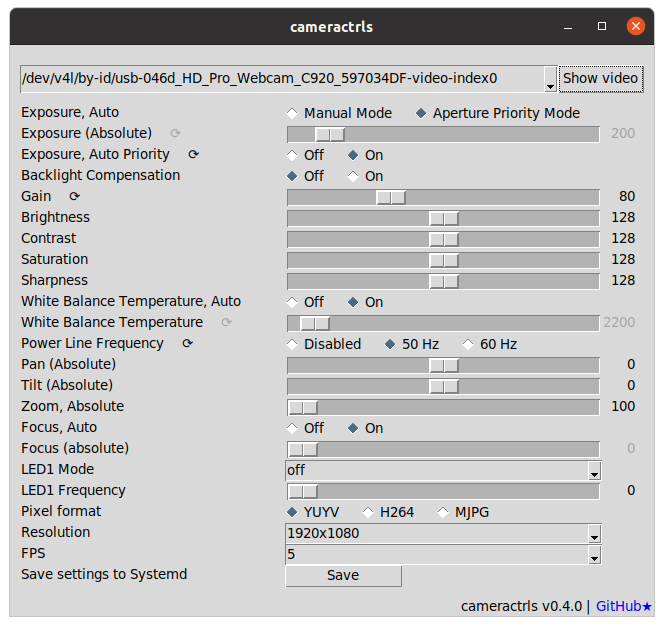
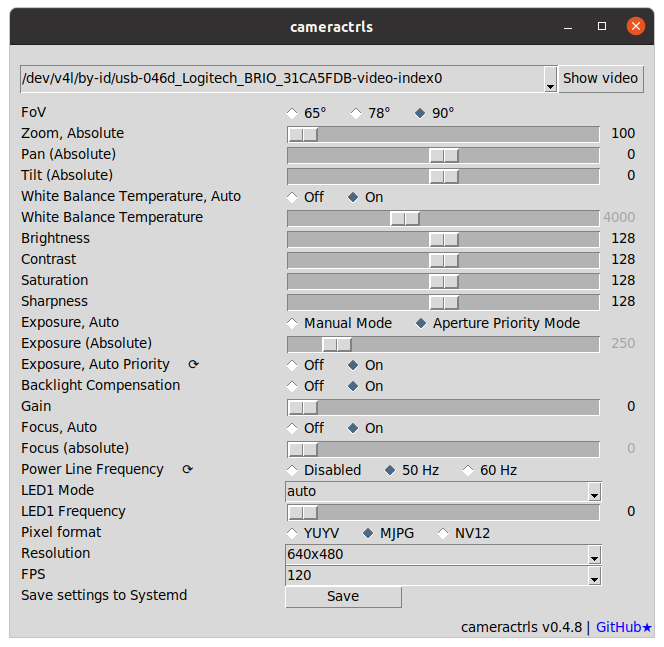
v0.4.8

diff --git a/cameractrls.py b/cameractrls.py
@@ -4,7 +4,7 @@ import ctypes, logging, os.path, getopt, sys, subprocess
 from fcntl import ioctl
 
 ghurl = 'https://github.com/soyersoyer/cameractrls'
-version = 'v0.4.7'
+version = 'v0.4.8'
 
 
 v4ldirs = {

diff --git a/README.md b/README.md
@@ -1,7 +1,7 @@
 # cameractrls
 Camera controls for Linux
 
-It's a standalone Python CLI and GUI (GTK, TK) and camera Viewer (SDL) to set the camera controls in Linux. It can set the V4L2 controls and it is extendable with the non standard controls. Currently it has a Logitech extension (Led mode, led frequency), Kiyo Pro extension (HDR, HDR mode, FoV, AF mode, Save), Systemd extension (Save and restore controls with Systemd path+service).
+It's a standalone Python CLI and GUI (GTK, TK) and camera Viewer (SDL) to set the camera controls in Linux. It can set the V4L2 controls and it is extendable with the non standard controls. Currently it has a Logitech extension (Led mode, led frequency, BRIO FoV), Kiyo Pro extension (HDR, HDR mode, FoV, AF mode, Save), Systemd extension (Save and restore controls with Systemd path+service).
 
 <a href='https://flathub.org/apps/details/hu.irl.cameractrls'><img width='240' alt='Download on Flathub' src='https://flathub.org/assets/badges/flathub-badge-en.png'/></a>
 
@@ -38,9 +38,11 @@ GTK GUI for the Camera controls
 <img alt="cameractrls launcher" src="https://github.com/soyersoyer/cameractrls/raw/main/images/gui_launcher.png" width="200">
 
 <div>
-<img alt="cameractrls basic screen" src="https://github.com/soyersoyer/cameractrls/raw/main/images/gui_screen_gtk_1.png" width="380">
-<img alt="cameractrls advanced screen" src="https://github.com/soyersoyer/cameractrls/raw/main/images/gui_screen_gtk_2.png" width="380">
-<img alt="cameractrls capture screen" src="https://github.com/soyersoyer/cameractrls/raw/main/images/gui_screen_gtk_3.png" width="380">
+<img alt="cameractrls crop screen" src="https://github.com/soyersoyer/cameractrls/raw/main/images/gui_screen_gtk_1.png" width="380">
+<img alt="cameractrls image screen" src="https://github.com/soyersoyer/cameractrls/raw/main/images/gui_screen_gtk_2.png" width="380">
+<img alt="cameractrls exposure screen" src="https://github.com/soyersoyer/cameractrls/raw/main/images/gui_screen_gtk_3.png" width="380">
+<img alt="cameractrls advanced screen" src="https://github.com/soyersoyer/cameractrls/raw/main/images/gui_screen_gtk_4.png" width="380">
+<img alt="cameractrls capture screen" src="https://github.com/soyersoyer/cameractrls/raw/main/images/gui_screen_gtk_5.png" width="380">
 </div>
 
 ### GTK GUI install

diff --git a/CHANGELOG.md b/CHANGELOG.md
@@ -1,5 +1,11 @@
 # Changelog
 
+## [0.4.8] - 2022-08-19
+
+### Changed
+- Cameractrls, GTK: Crop, Image, Exposure pages for better navigation
+
+
 ## [0.4.7] - 2022-08-19
 
 ### Added
